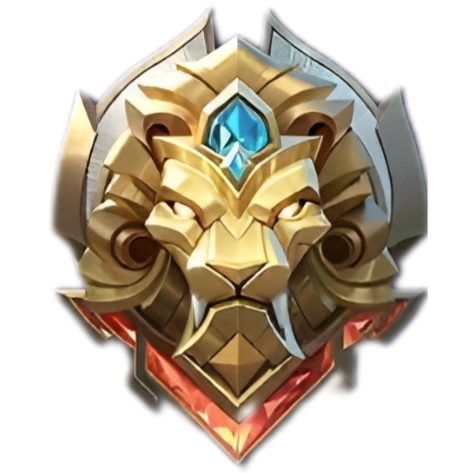
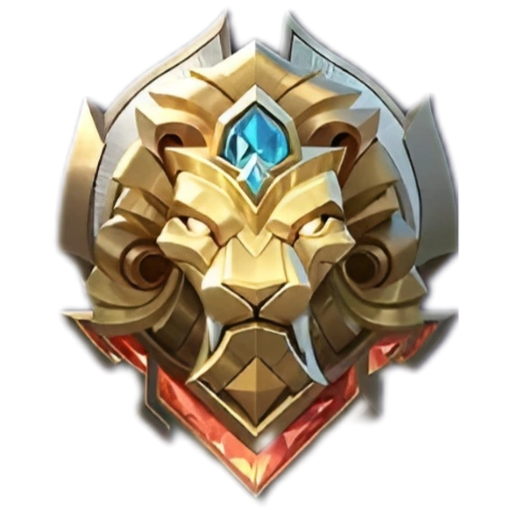
Normalize rank emblem display widths

diff --git a/rank-icons/SOURCES.md b/rank-icons/SOURCES.md
@@ -1,6 +1,6 @@
 # Rank icon sources
 
-These PNGs are local copies of rank emblems and the rank-star image hosted by the Mobile Legends Wiki on Fandom. Fandom's CDN served WebP responses; they were converted to PNG for compatibility with EvA-Client's image decoder. The artwork remains the property of its respective rights holders.
+These PNGs are local copies of rank emblems and the rank-star image hosted by the Mobile Legends Wiki on Fandom. Fandom's CDN served WebP responses; they were converted to PNG for compatibility with EvA-Client's image decoder. For consistent Room Info sizing, transparent margins are trimmed and each emblem is resized with its aspect ratio preserved, then centered on a 512×512 transparent canvas with a 408-pixel visible width. The star image remains unchanged. The artwork remains the property of its respective rights holders.
 
 | Asset | Wiki file page | Original image URL |
 |---|---|---|
